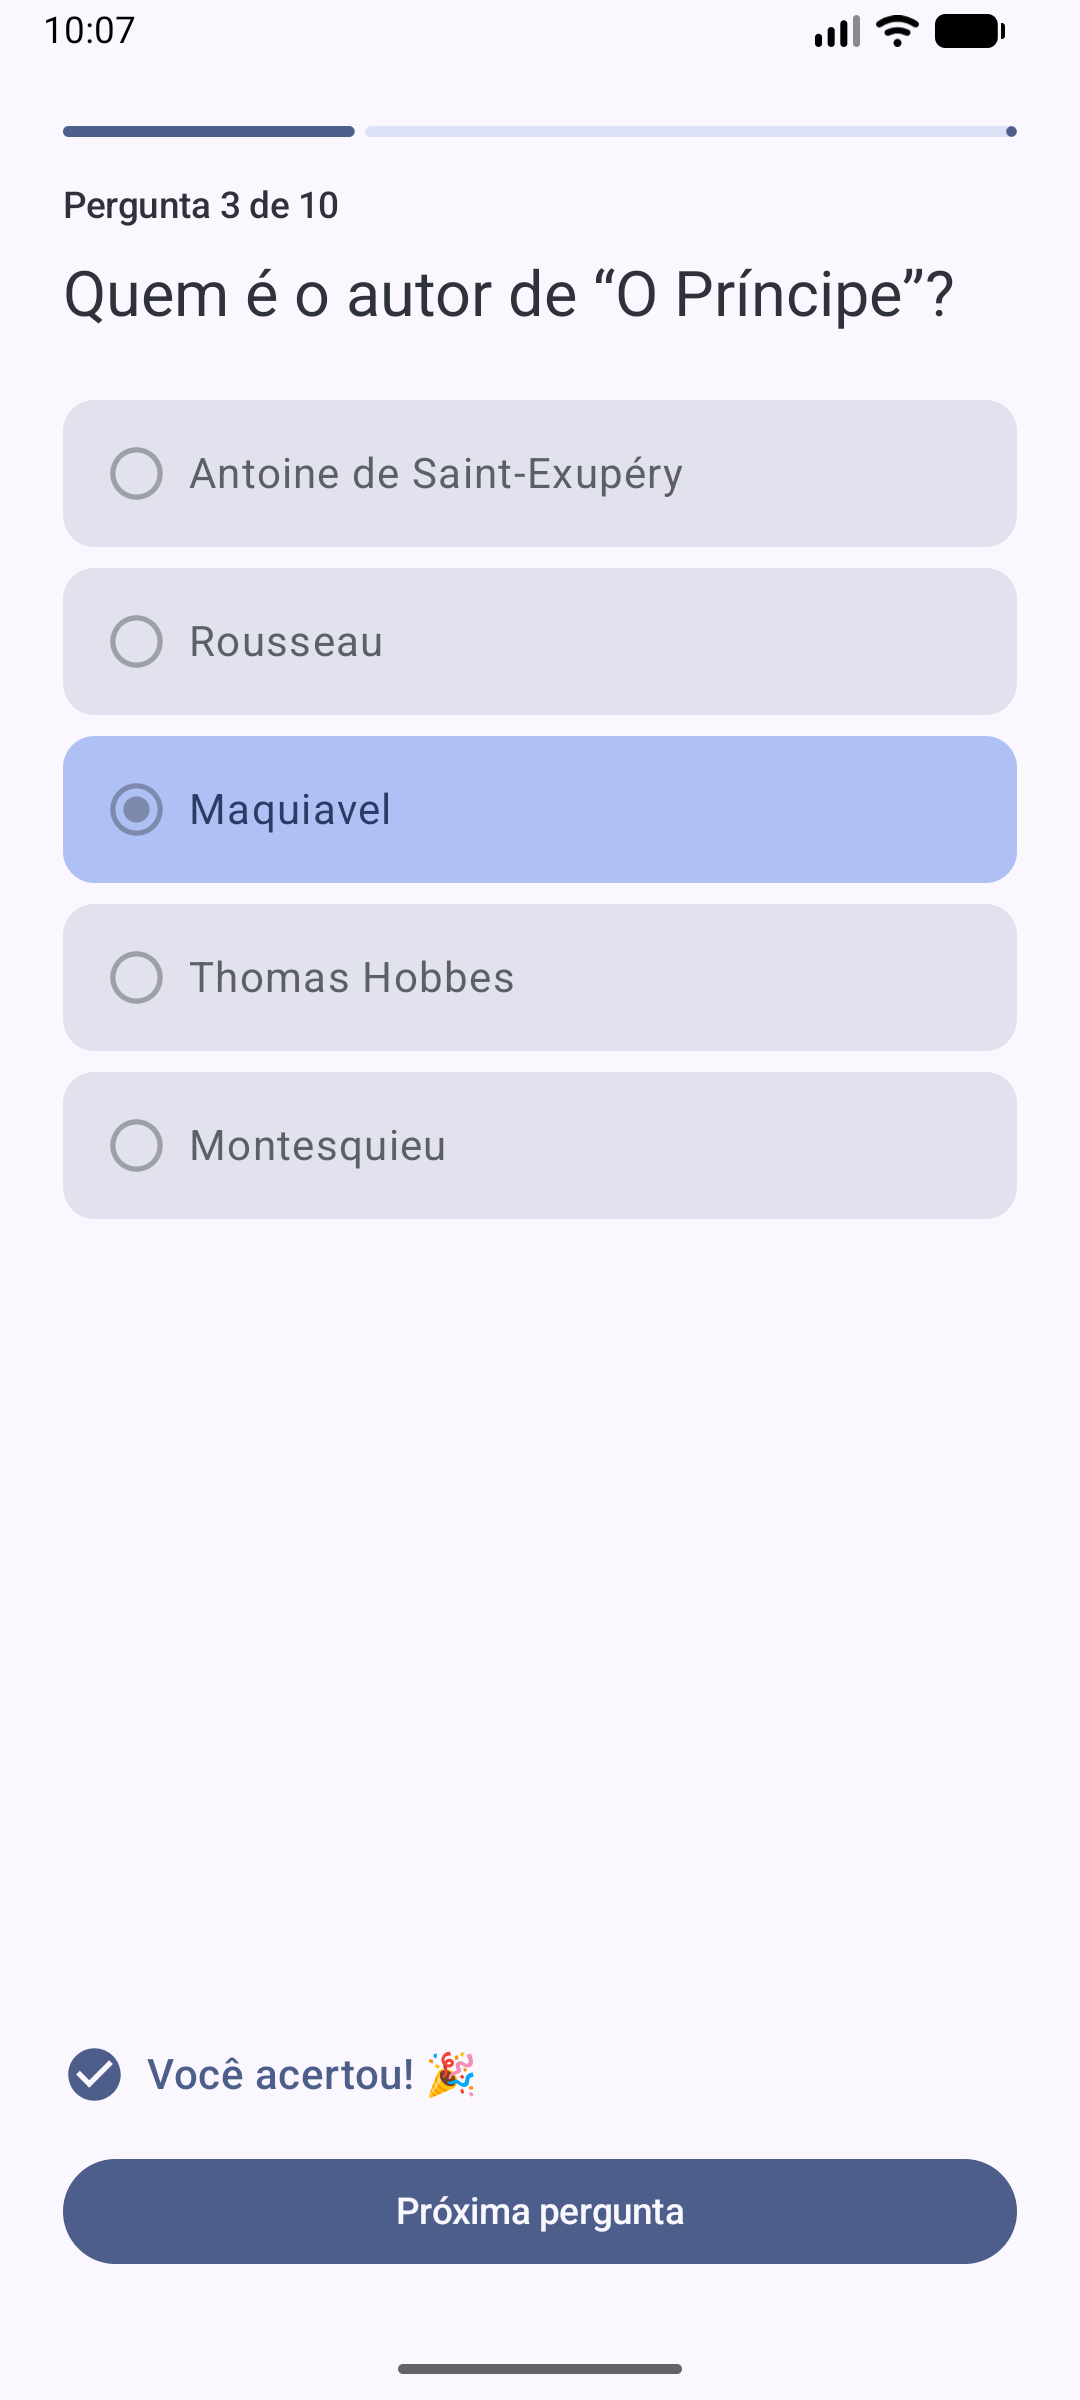
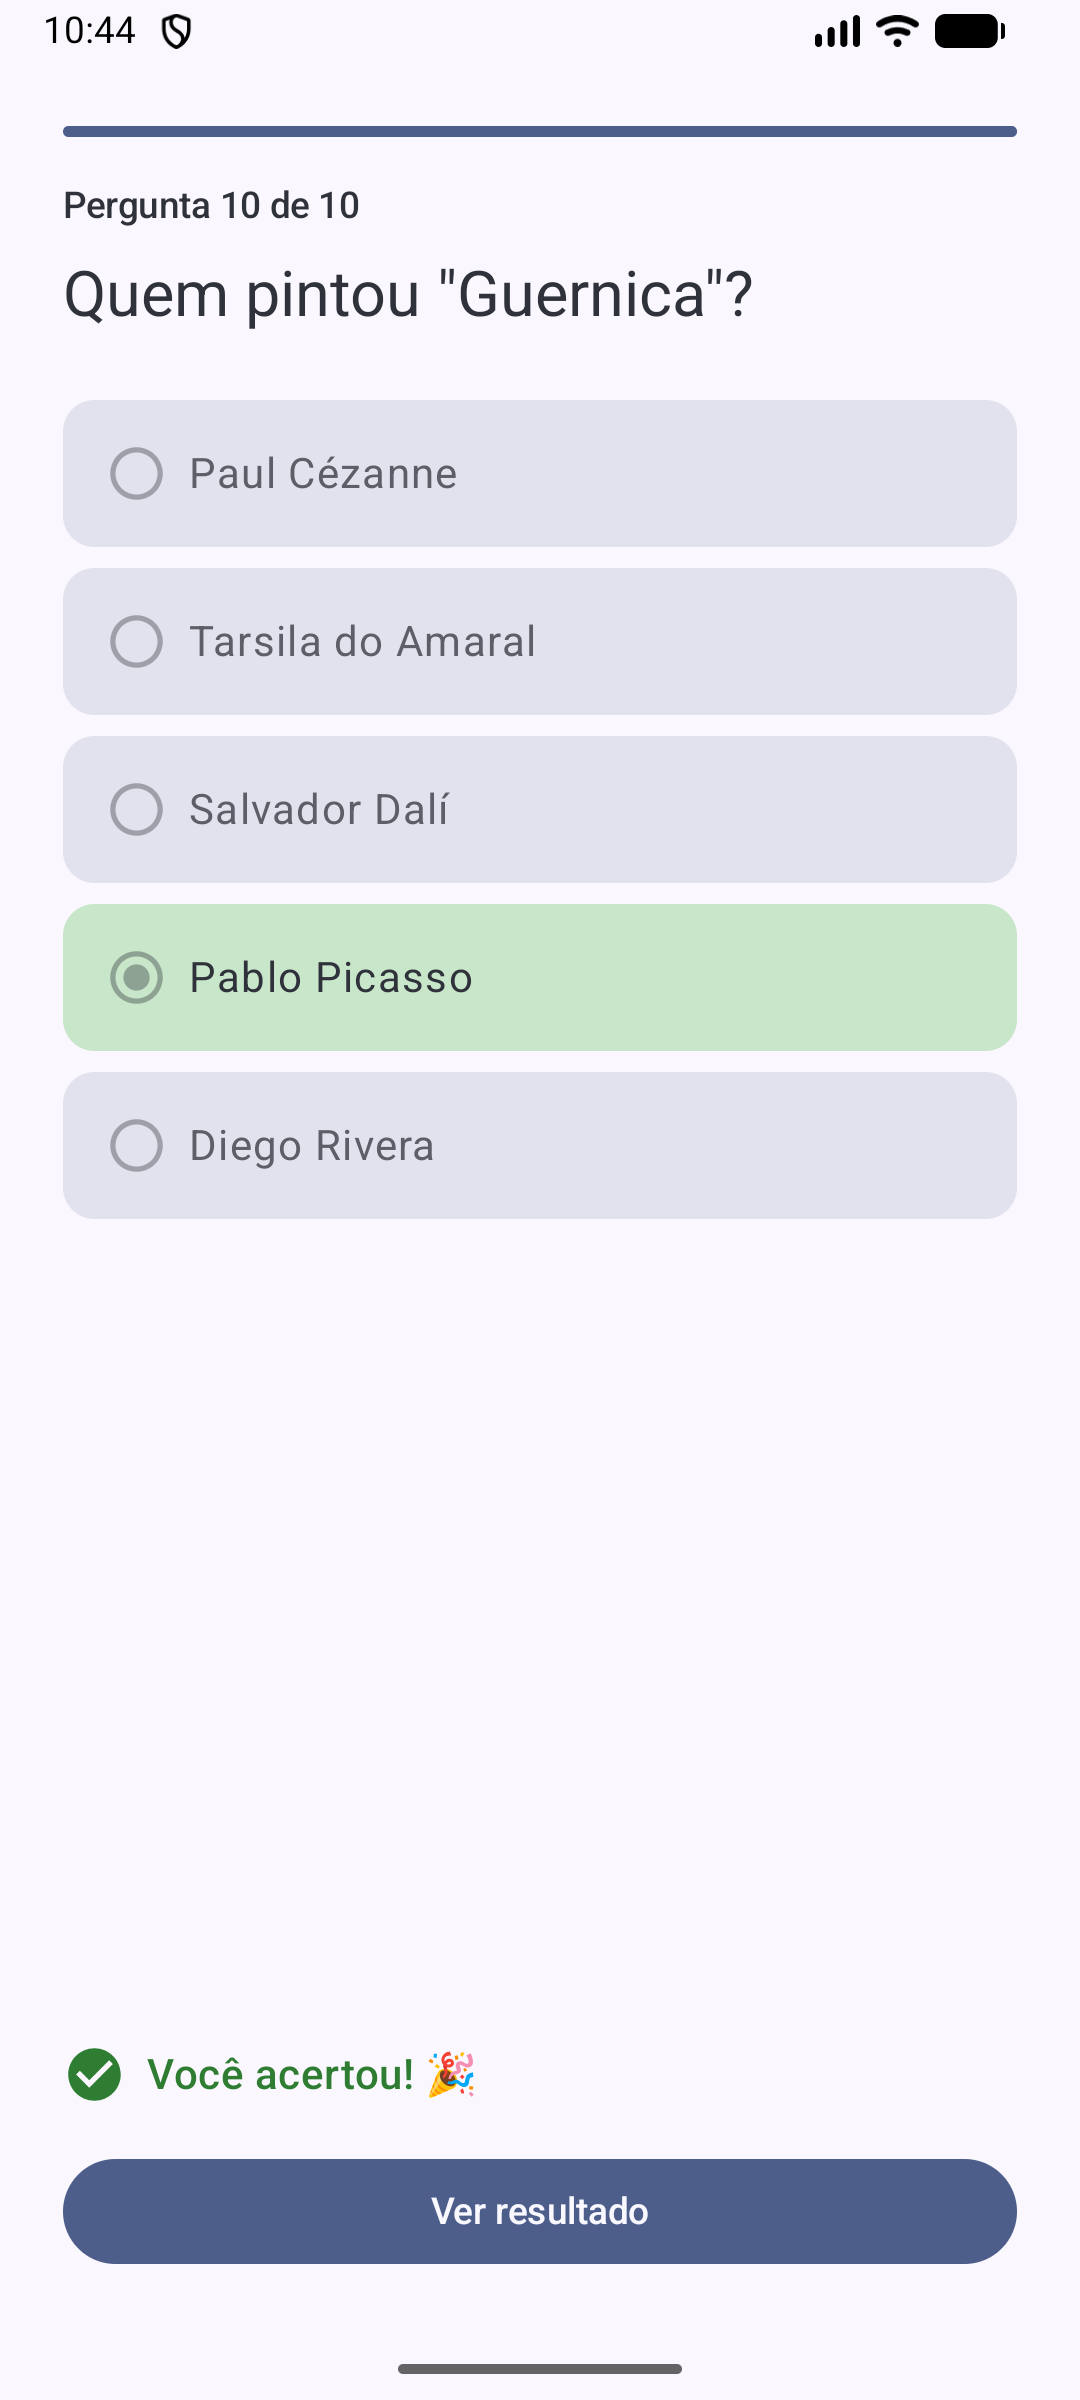
docs: update screenshots and refine ResultScreen spacing

diff --git a/app/src/main/java/com/dynamox/quizchallenge/ui/result/ResultScreen.kt b/app/src/main/java/com/dynamox/quizchallenge/ui/result/ResultScreen.kt
@@ -82,7 +82,7 @@ fun ResultScreen(
                 Spacer(Modifier.width(8.dp))
                 Text(stringResource(R.string.result_share_button))
             }
-            Spacer(Modifier.height(24.dp))
+            Spacer(Modifier.height(12.dp))
             Button(onClick = onRestart, modifier = Modifier.fillMaxWidth()) {
                 Text(stringResource(R.string.result_restart_button))
             }
